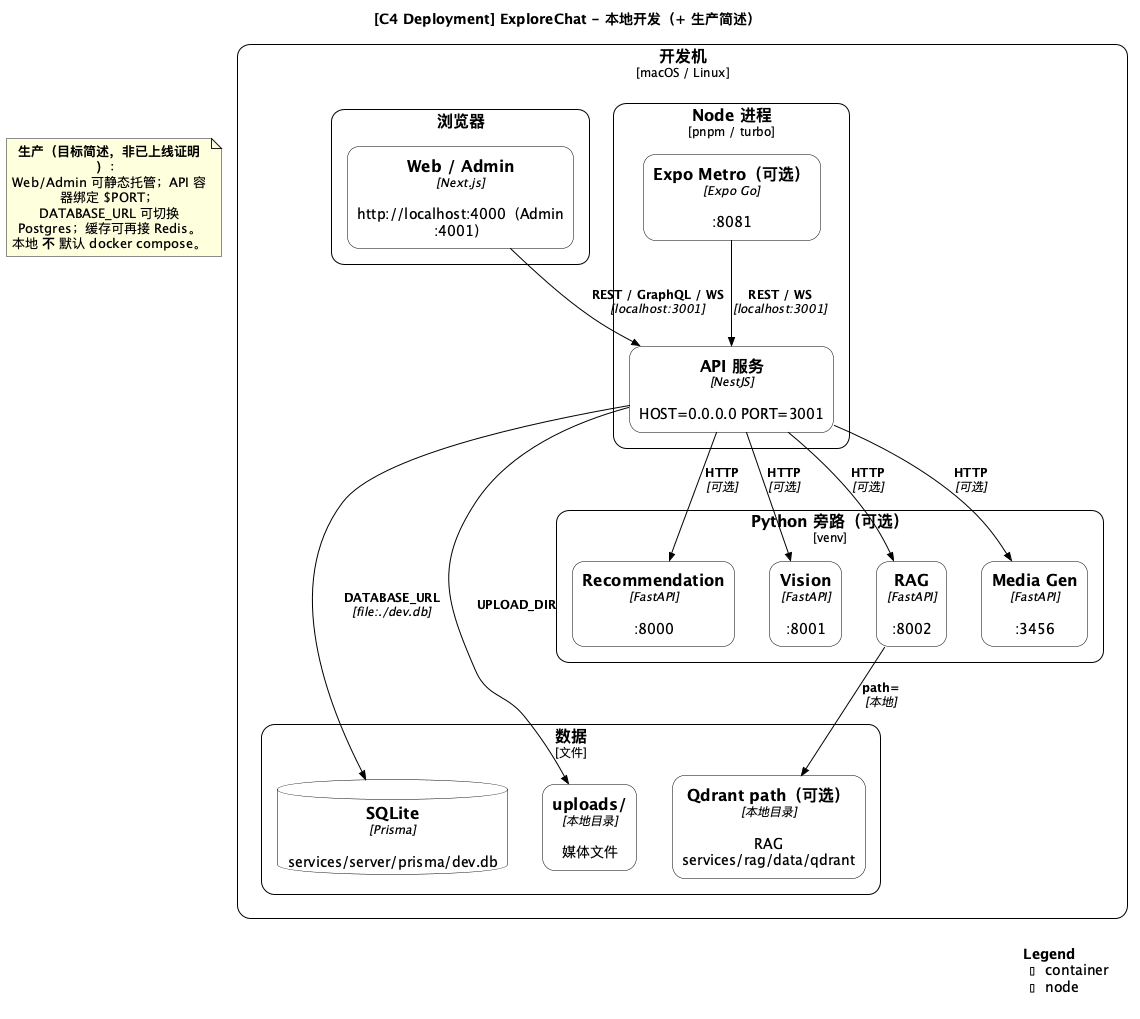
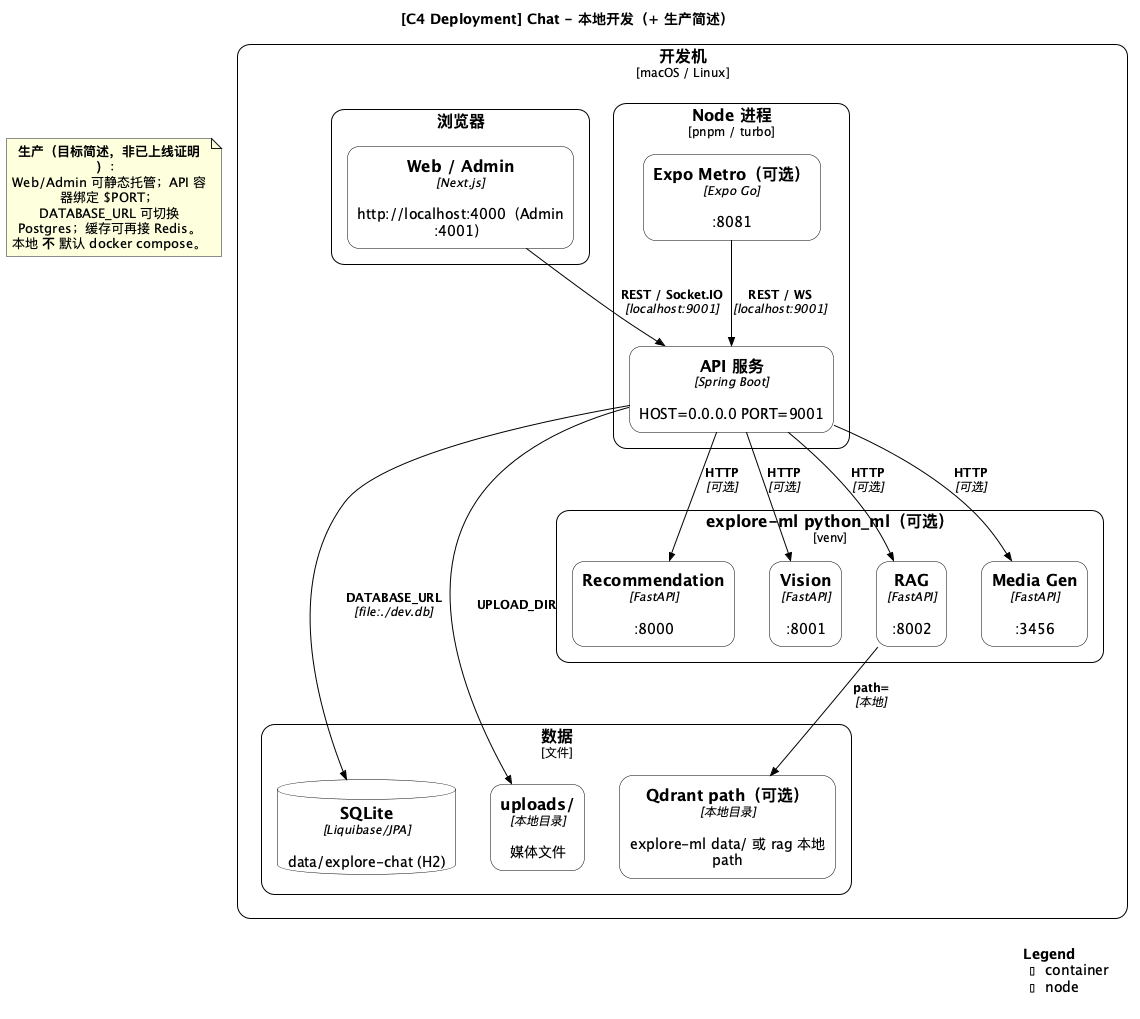
Point Chat docs at sibling explore-ml (#117)
ML helpers now live in explore-ml under python_ml/. Chat
docs and C4 must name that boundary so local ports stay
stable without embedding the Python tree.

References:

- https://c4model.com/
- https://github.com/felixzhu97/explore-ml
- https://google.aip.dev/193
- https://fastapi.tiangolo.com/

diff --git a/docs/Glossary.md b/docs/Glossary.md
@@ -36,10 +36,10 @@ This document defines the project **Ubiquitous Language**. English terms are the
 | Notification   | 通知            | `com.chat.notifications`         | `layout/`            | `secondary/` / `app/notifications` | 通知抽屉         | `/api/v1/notifications`         | WS `notification:new`                            |
 | Media          | 媒体上传        | `com.chat.media`                 | `ai/apis/file.api`   | `feed/` (upload via RTK)           | 发帖上传         | `/api/v1/media`                 | 本地盘 / 对象存储                                |
 | Status         | 状态            | `com.chat.status`           | `secondary/pages/`   | `feed/` (story via feedApi)        | Status UI        | `/api/v1/status`                | 24h 状态                                         |
-| Image Gen      | 图片生成        | `com.chat.ai` → media-gen        | `ai/apis/image.api`  | —                                  | 生成对话框       | `/api/v1/image`                 | API → media-gen                                  |
-| Video Gen      | 视频生成        | `com.chat.ai` → media-gen        | `ai/apis/video.api`  | —                                  | 生成对话框       | `/api/v1/video`                 | API → media-gen                                  |
-| Voice Gen      | 语音合成        | `com.chat.ai` → media-gen        | `ai/apis/voice.api`  | —                                  | 生成对话框       | `/api/v1/voice`                 | API → media-gen                                  |
-| Vision         | 视觉审核        | `com.chat.ai` → vision           | `ai/apis/vision.api` | —                                  | 发帖链路         | `/api/v1/vision`                | 旁路 Vision 服务                                 |
+| Image Gen      | 图片生成        | `com.chat.ai` → explore-ml media-gen | `ai/apis/image.api`  | —                                  | 生成对话框       | `/api/v1/image`                 | API → explore-ml `:3456`                         |
+| Video Gen      | 视频生成        | `com.chat.ai` → explore-ml media-gen | `ai/apis/video.api`  | —                                  | 生成对话框       | `/api/v1/video`                 | API → explore-ml `:3456`                         |
+| Voice Gen      | 语音合成        | `com.chat.ai` → explore-ml media-gen | `ai/apis/voice.api`  | —                                  | 生成对话框       | `/api/v1/voice`                 | API → explore-ml `:3456`                         |
+| Vision         | 视觉审核        | `com.chat.ai` → explore-ml vision    | `ai/apis/vision.api` | —                                  | 发帖链路         | `/api/v1/vision`                | 旁路 explore-ml `:8001`                          |
 | Analytics      | 分析            | `com.chat.analytics`        | —                    | `layout/providers`                 | Admin            | `/api/v1/analytics`             |                                                  |
 | Ads            | 广告            | `com.chat.ads`              | —                    | —                                  | Admin            | `/api/v1/ads`                   |                                                  |
 | Admin          | 管理            | `com.chat.admin`            | —                    | —                                  | Admin App        | `/api/v1/admin`                 |                                                  |

diff --git a/docs/developer/python-services.md b/docs/developer/python-services.md
@@ -1,57 +1,33 @@
-# Python ML helpers — identical minimal layout
+# Python ML helpers (sibling repo)
 
-Chat keeps four optional Python HTTP helpers. Clients call **Nest only**; Nest calls these over loopback.
+Optional FastAPI helpers used by this Spring API over loopback live in
+sibling **[explore-ml](https://github.com/felixzhu97/explore-ml)** under
+`python_ml/{recommendation,vision,rag,media-gen}`.
 
-Every helper uses the **same top-level directory** and the same two layers: `api` → `service` → `domain`.
+Clients still call **Spring only**. Default ports are unchanged:
 
-HTTP surface follows the shared [AIP REST contract](./aip-rest.md): `/api/v1`, resource or `:verb` paths, snake_case JSON, AIP-193 `RpcStatus` errors (see each service `aip/`).
-
-## Forced layout
-
-```
-src/main/ml/<name>/
-├── README.md
-├── .env.example
-├── requirements.txt      # sole dependency list
-├── main.py               # FastAPI assemble + uvicorn + AIP handlers
-├── config.py             # dotenv + os.getenv (ports)
-├── api.py                # all HTTP (flat api_*.py allowed; no routes/ dir)
-├── aip/                  # RpcStatus + exception handlers (+ page_token)
-├── service.py            # orchestration only
-├── domain/               # ML / ETL / schemas / utils
-│   └── __init__.py
-├── tests/                # at least test_health.py or existing suite
-└── (recommendation only) celery_app.py, tasks.py, run_*.py
-```
-
-Optional: `Dockerfile`, runtime dirs (`output/`, `uploads/` — gitignored).
-
-## Start
-
-```bash
-cd src/main/ml/<name>
-uvicorn main:app --host 0.0.0.0 --port $PORT
-```
-
-| Service        | Default port | Nest env                   |
+| Service        | Default port | Nest / Spring env          |
 | -------------- | ------------ | -------------------------- |
 | recommendation | 8000         | `RECOMMENDATION_API_URL`   |
 | vision         | 8001         | `VISION_SERVICE_URL`       |
-| rag            | 8002         | `RAG_SERVICE_URL` (docs)   |
+| rag            | 8002         | `RAG_SERVICE_URL`          |
 | media-gen      | 3456         | `MEDIA_GENERATION_API_URL` |
 
-## Layering
+## Canonical docs
 
-- **api.py** — request/response only; call `service`
-- **service.py** — orchestration; call `domain` / external I/O
-- **domain/** — models, ETL, embeddings, parsers (never HTTP routers)
-- **aip/** — AIP-193 handlers; no business rules
+- Layout & layering: [explore-ml python-services](https://github.com/felixzhu97/explore-ml/blob/main/docs/developer/python-services.md)
+- AIP REST remaps: [explore-ml aip-rest](https://github.com/felixzhu97/explore-ml/blob/main/docs/developer/aip-rest.md)
+- Local AIP guard in that repo: `bash scripts/check-aip-rest.sh`
 
-**Forbidden:** `routes/`, `src/`, `app/`, root-level `etl/` / `core/` / `schemas/` (those live under `domain/`), dual `pyproject.toml` + `requirements.txt`, legacy `{ success, data }` envelopes.
+## Start (from explore-ml)
+
+```bash
+cd ../explore-ml/python_ml/<name>   # sibling checkout
+uvicorn main:app --host 0.0.0.0 --port $PORT
+```
 
 ## References
 
-- [AIP REST (Chat)](./aip-rest.md)
-- [AIP-193 Errors](https://google.aip.dev/193)
-- [FastAPI bigger applications](https://fastapi.tiangolo.com/tutorial/bigger-applications/)
-- [Uvicorn](https://docs.uvicorn.org/)
+- https://github.com/felixzhu97/explore-ml
+- https://fastapi.tiangolo.com/
+- https://google.aip.dev/193

diff --git a/README.md b/README.md
@@ -1,6 +1,6 @@
 # Chat
 
-`Chat` is a social messaging app you can use to share posts, browse Feed and Reels, message friends, and place calls. It is a pnpm + Turbo monorepo with a **Spring Boot API at the repo root**, Next.js web/admin under `src/main/web` and `src/main/admin`, Expo mobile under `src/main/mobile`, and optional Python side services under `src/main/ml`.
+`Chat` is a social messaging app you can use to share posts, browse Feed and Reels, message friends, and place calls. It is a pnpm + Turbo monorepo with a **Spring Boot API at the repo root**, Next.js web/admin under `src/main/web` and `src/main/admin`, Expo mobile under `src/main/mobile`, and optional Python side services in sibling [explore-ml](https://github.com/felixzhu97/explore-ml).
 
 Clients talk only to the Spring API over HTTPS and Socket.IO (plus WebRTC signaling). Optional AI, vision, recommendation, and RAG side services stay behind the API. Local Java defaults use H2 + Liquibase.
 
@@ -15,7 +15,7 @@ Clients talk only to the Spring API over HTTPS and Socket.IO (plus WebRTC signal
 - pnpm 10 or later
 - Git
 
-Optional: [Ollama](https://ollama.com/) and Python services under `src/main/ml/`. See [Guideline](docs/Guideline.md) and [Glossary](docs/Glossary.md).
+Optional: [Ollama](https://ollama.com/) and Python services in [explore-ml](https://github.com/felixzhu97/explore-ml) (`python_ml/`). See [Guideline](docs/Guideline.md) and [Glossary](docs/Glossary.md).
 
 ### Initial setup
 
@@ -77,7 +77,7 @@ pnpm test
 
 - [QUICKSTART](docs/developer/QUICKSTART.md)
 - [Guideline](docs/Guideline.md) · [Glossary](docs/Glossary.md)
-- [API notes](docs/developer/api.md) · [Python services](docs/developer/python-services.md)
+- [API notes](docs/developer/api.md) · [Python services](docs/developer/python-services.md) (→ [explore-ml](https://github.com/felixzhu97/explore-ml))
 - [C4 model](docs/developer/c4-model/README.md)
 - [User Story Map](docs/product-owner/User-Story-Map.md)
 
@@ -88,10 +88,11 @@ src/main/java            Spring Boot API (:9001 HTTP, :9002 Socket.IO)
 src/main/web             Next.js (:4000)
 src/main/admin           Admin (:4001)
 src/main/mobile          Expo / React Native
-src/main/ml              Python ML helpers (recommendation / vision / rag / media-gen)
 packages/                Shared types, IM, analytics (web / Expo)
 docs/                    Guideline, Glossary, developer, C4
 ```
+
+Optional ML helpers live in sibling [`explore-ml`](https://github.com/felixzhu97/explore-ml) under `python_ml/` (ports `:8000` / `:8001` / `:8002` / `:3456`).
 
 Java features use per-feature packages: `controller` → `service` → `domain` ← `infra`, plus `mapper`.
 

diff --git a/docs/developer/aip-rest.md b/docs/developer/aip-rest.md
@@ -49,8 +49,11 @@ Shared types: `RpcStatus` / `ListQuery` / `ListResponse` in `@chat/shared-types`
 
 ## Python ML helpers (loopback)
 
-Same AIP rules apply to FastAPI helpers under `src/main/ml/{recommendation,vision,rag,media-gen}`.
+Same AIP rules apply to FastAPI helpers in sibling
+[explore-ml](https://github.com/felixzhu97/explore-ml) under
+`python_ml/{recommendation,vision,rag,media-gen}`.
 Clients still call the Spring API only; the API calls these over loopback with **snake_case** JSON.
+Canonical remap table: [explore-ml aip-rest](https://github.com/felixzhu97/explore-ml/blob/main/docs/developer/aip-rest.md).
 
 | Service        | Legacy                         | AIP                                      |
 | -------------- | ------------------------------ | ---------------------------------------- |
@@ -80,7 +83,8 @@ Each helper ships `aip/` (`rpc_status`, exception handlers, `page_token` for RAG
 - No protobuf → no `api-linter`
 - OpenAPI via Nest Swagger at `/api/docs` (non-production)
 - Spectral rules: [`.spectral.yml`](../../.spectral.yml) against [`openapi-aip-contract.yaml`](./openapi-aip-contract.yaml)
-- Controller / Python guard: `pnpm check:aip-rest` (rejects legacy `success` envelopes in Nest controllers and Python helpers)
+- Chat: `pnpm check:aip-rest` (legacy envelope guard; Python paths move to explore-ml in a follow-up)
+- Explore ML: `bash scripts/check-aip-rest.sh` in [explore-ml](https://github.com/felixzhu97/explore-ml)
 
 ## Package layout note
 

diff --git a/docs/developer/api.md b/docs/developer/api.md
@@ -133,11 +133,15 @@ GET ${API_PREFIX}/posts/feed  ·  GET ${API_PREFIX}/posts/reels
 
 ## Side services
 
-| Service        | Default port | Docs (legacy merged here) |
-| -------------- | ------------ | ------------------------- |
-| Recommendation | 8000         | Feed/Explore 排序与召回   |
-| Vision         | 8001         | 标签与 NSFW               |
-| RAG            | 8002         | 语义搜索 / 问答           |
-| Media Gen      | 3456         | 图片 / 视频 / 语音        |
+Optional helpers live in sibling
+[explore-ml](https://github.com/felixzhu97/explore-ml) (`python_ml/`).
 
-客户端应优先经 Nest API，而不是在浏览器硬编码旁路服务密钥。
+| Service        | Default port | Docs |
+| -------------- | ------------ | ---- |
+| Recommendation | 8000         | Feed/Explore 排序与召回 |
+| Vision         | 8001         | 标签与 NSFW |
+| RAG            | 8002         | 语义搜索 / 问答 |
+| Media Gen      | 3456         | 图片 / 视频 / 语音 |
+
+客户端应优先经 Spring API，而不是在浏览器硬编码旁路服务密钥。
+See [python-services.md](./python-services.md).

diff --git a/docs/developer/c4-model/README.md b/docs/developer/c4-model/README.md
@@ -114,7 +114,7 @@ cd docs/developer/c4-model && plantuml -tpng -o png C4-Code-Domain-Model-Plan.pu
 | Mobile       | Expo / React Native (`src/main/mobile`)                                                        |
 | API          | Spring Boot；REST / Socket.IO；`:9001`                                         |
 | 持久化       | H2 / Postgres（JPA + Liquibase）                                                       |
-| 旁路（可选） | recommendation `:8000`、vision `:8001`、rag `:8002`（本地向量目录）、media-gen `:3456` |
+| 旁路（可选） | [explore-ml](https://github.com/felixzhu97/explore-ml) `python_ml/` — recommendation `:8000`、vision `:8001`、rag `:8002`、media-gen `:3456` |
 | AI           | 本地 Ollama；Explore AI 经 Spring BFF                                                  |
 
 限界上下文（Java）：`auth` / `users` / `post` / `comments` / `chats` / `search` / `notifications` / …
